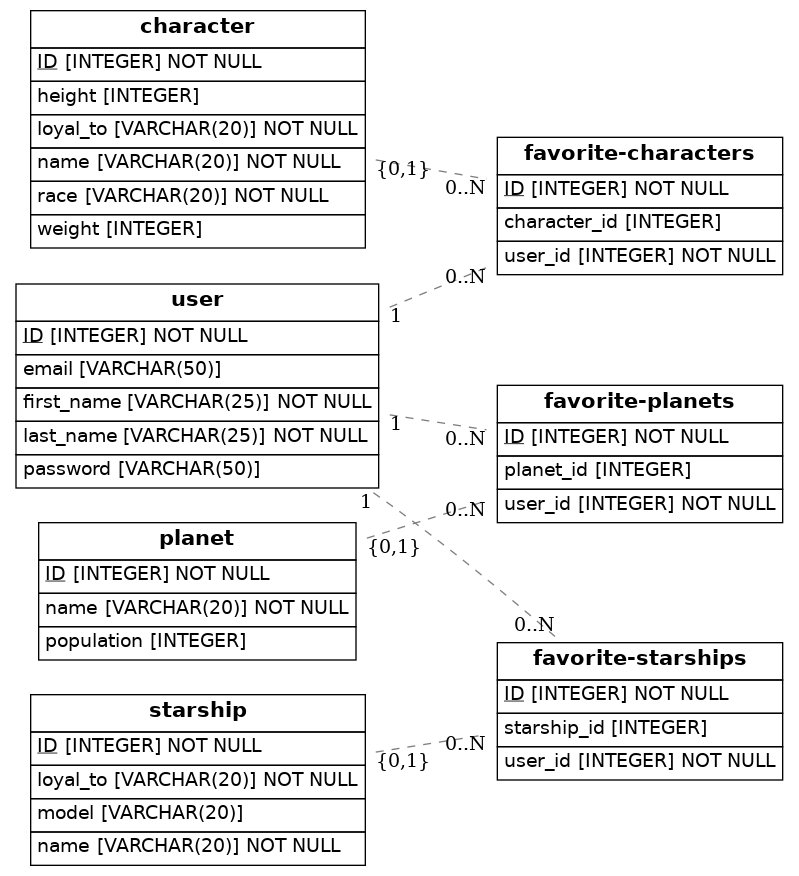
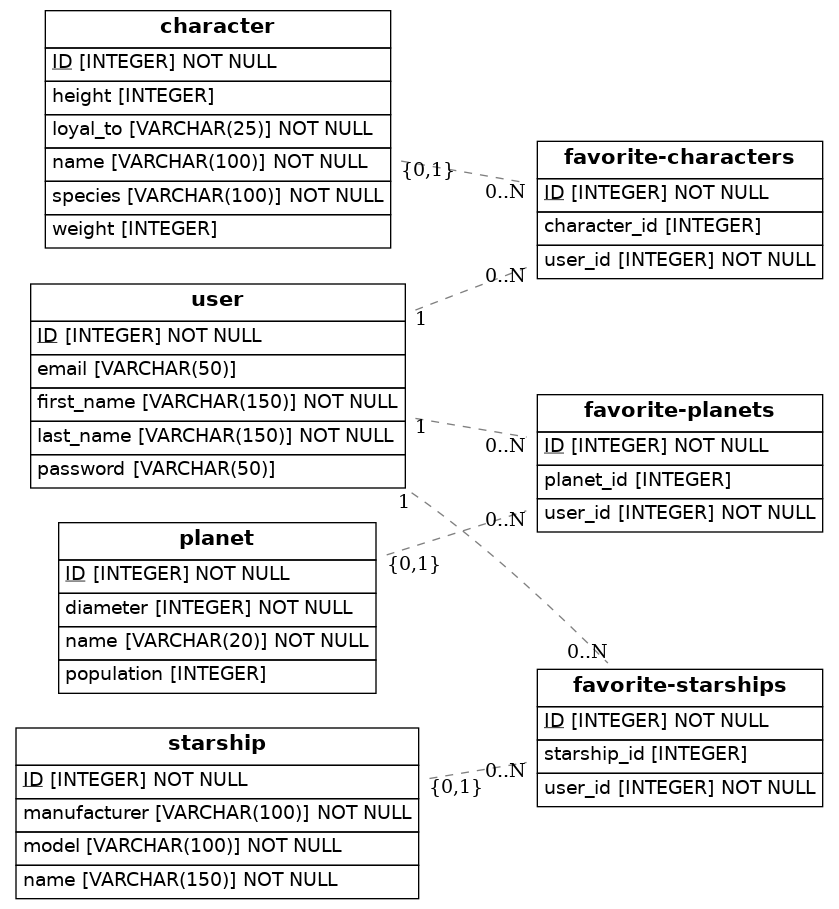
Star Wars Data Modeling

Changed region(s): [[0.0, 0.3082, 0.9912, 1.0], [0.03, 0.0, 0.9912, 0.339], [0.5407, 0.4315, 0.9912, 0.6164]]

diff --git a/src/models.py b/src/models.py
@@ -9,17 +9,17 @@ Base = declarative_base()
 class User(Base):
     __tablename__ = "user"
     ID = Column(Integer, primary_key=True)
-    first_name = Column(String(25), nullable=False)
-    last_name = Column(String(25), nullable=False)
+    first_name = Column(String(150), nullable=False)
+    last_name = Column(String(150), nullable=False)
     email = Column(String(50), unique=True)
     password = Column(String(50))
 
 class Character(Base):
     __tablename__ = "character"
     ID = Column(Integer, primary_key=True)
-    name = Column(String(20), nullable=False)
-    race = Column(String(20), nullable=False)
-    loyal_to = Column(String(20), nullable=False)
+    name = Column(String(100), nullable=False)
+    species = Column(String(100), nullable=False)
+    loyal_to = Column(String(25), nullable=False)
     height = Column(Integer)
     weight = Column(Integer)
 
@@ -27,14 +27,15 @@ class Planet(Base):
     __tablename__ = "planet"
     ID = Column(Integer, primary_key=True)
     name = Column(String(20), nullable=False)
+    diameter = Column(Integer, nullable=False)
     population = Column(Integer)
 
 class Starship(Base):
     __tablename__ = "starship"
     ID = Column(Integer, primary_key=True)
-    name = Column(String(20), nullable=False)
-    model = Column(String(20))
-    loyal_to = Column(String(20), nullable=False)
+    name = Column(String(150), nullable=False)
+    model = Column(String(100), nullable=False)
+    manufacturer = Column(String(100), nullable=False)
    
 class FavoriteCharacters(Base):
     __tablename__ = "favorite-characters"
